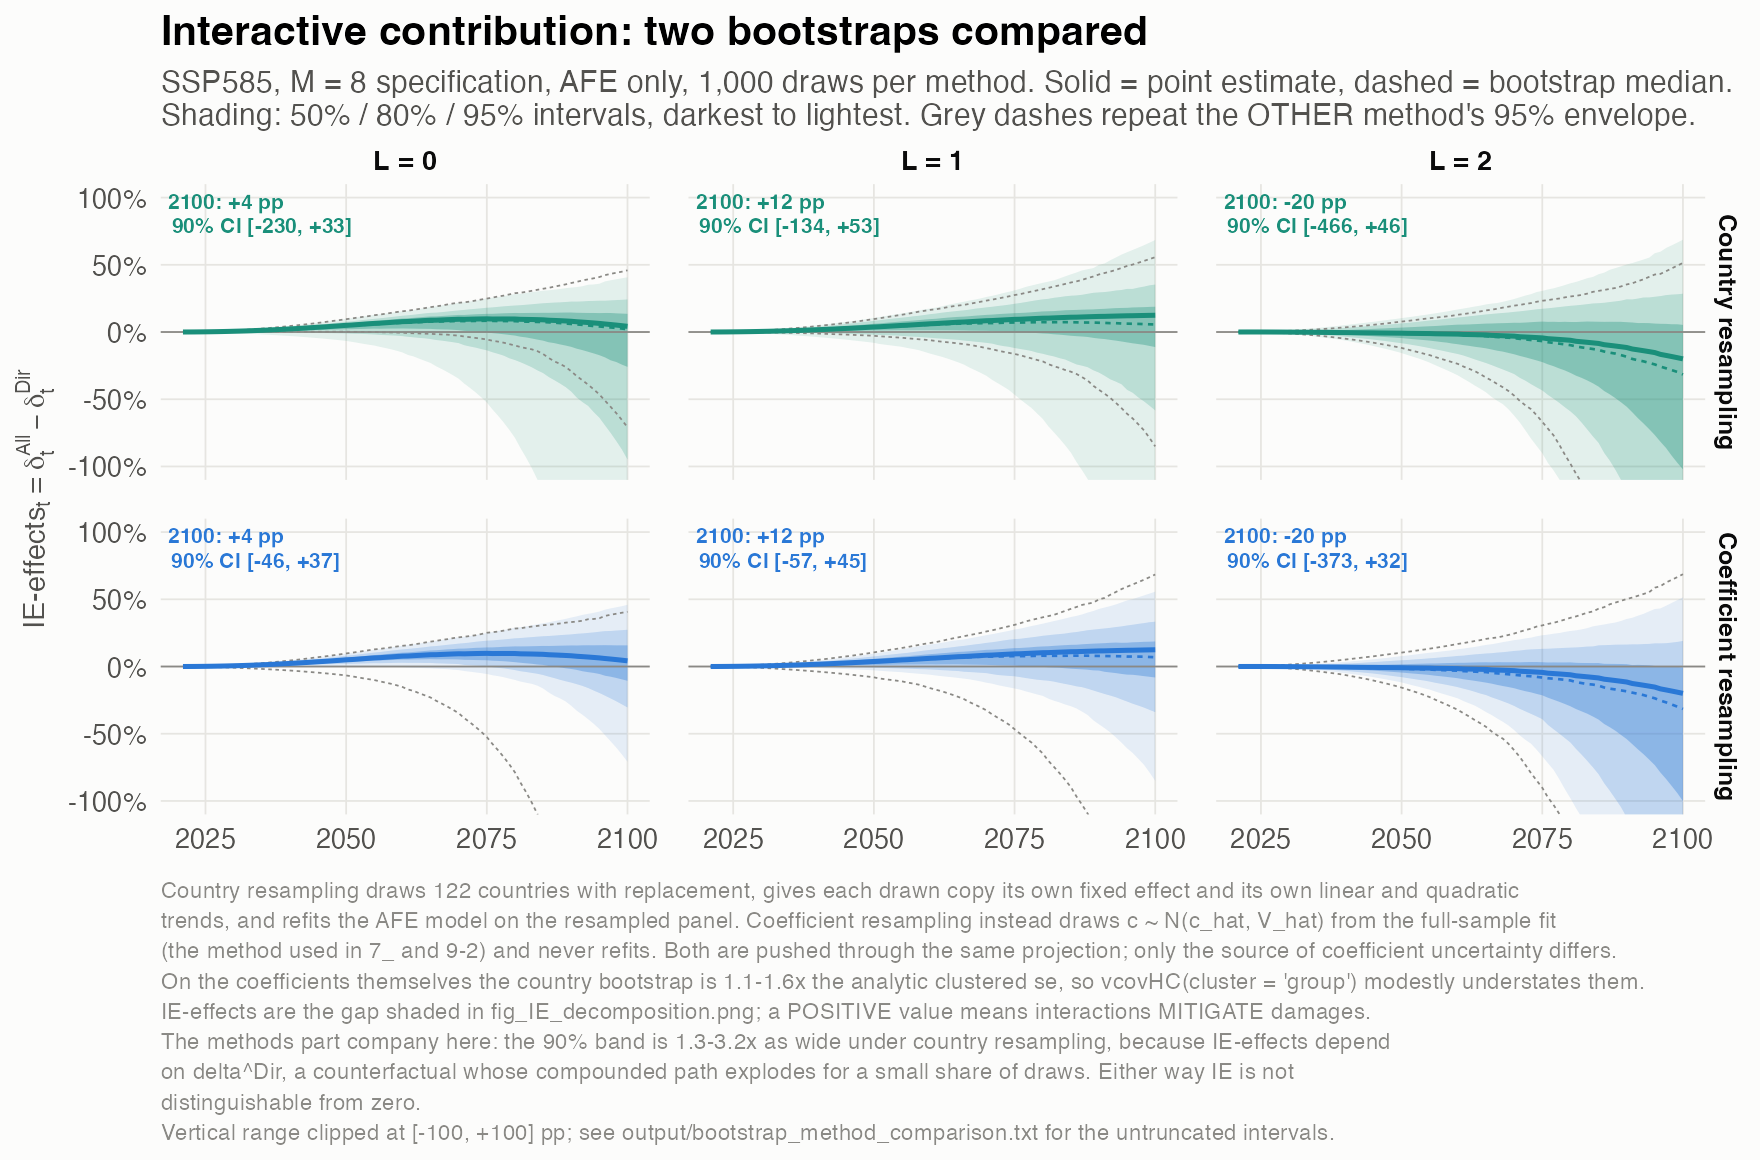
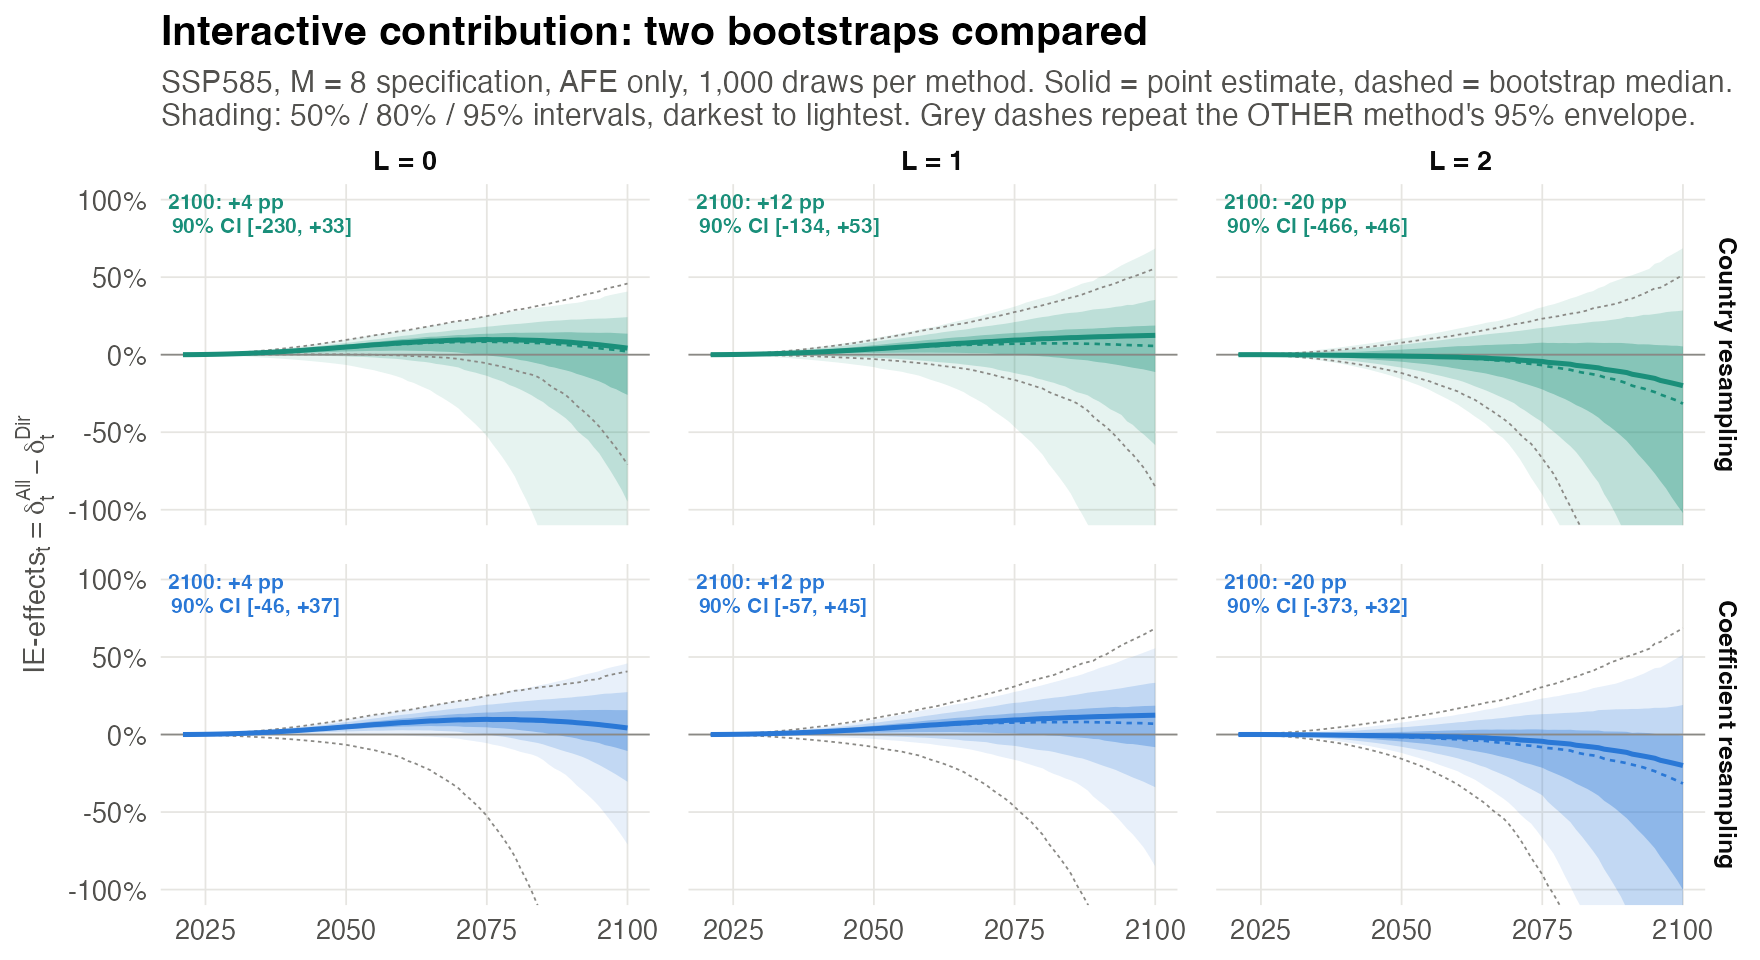
btw-model IE-effects summary
Add global_damage_summary.txt

diff --git a/Revision_2026Aug/coding_conventions.md b/Revision_2026Aug/coding_conventions.md
@@ -16,3 +16,5 @@
 
 - Find my custom ggplot theme in `./_fig_theme.R`. Use it for all plots. 
 - For figure backround (except for maps), always use "white". I think it is the default. Don't change it to some other color.
+- fig DPI should be 300 for all figures.
+- numbers should be at least 2 digits after the decimal point.
